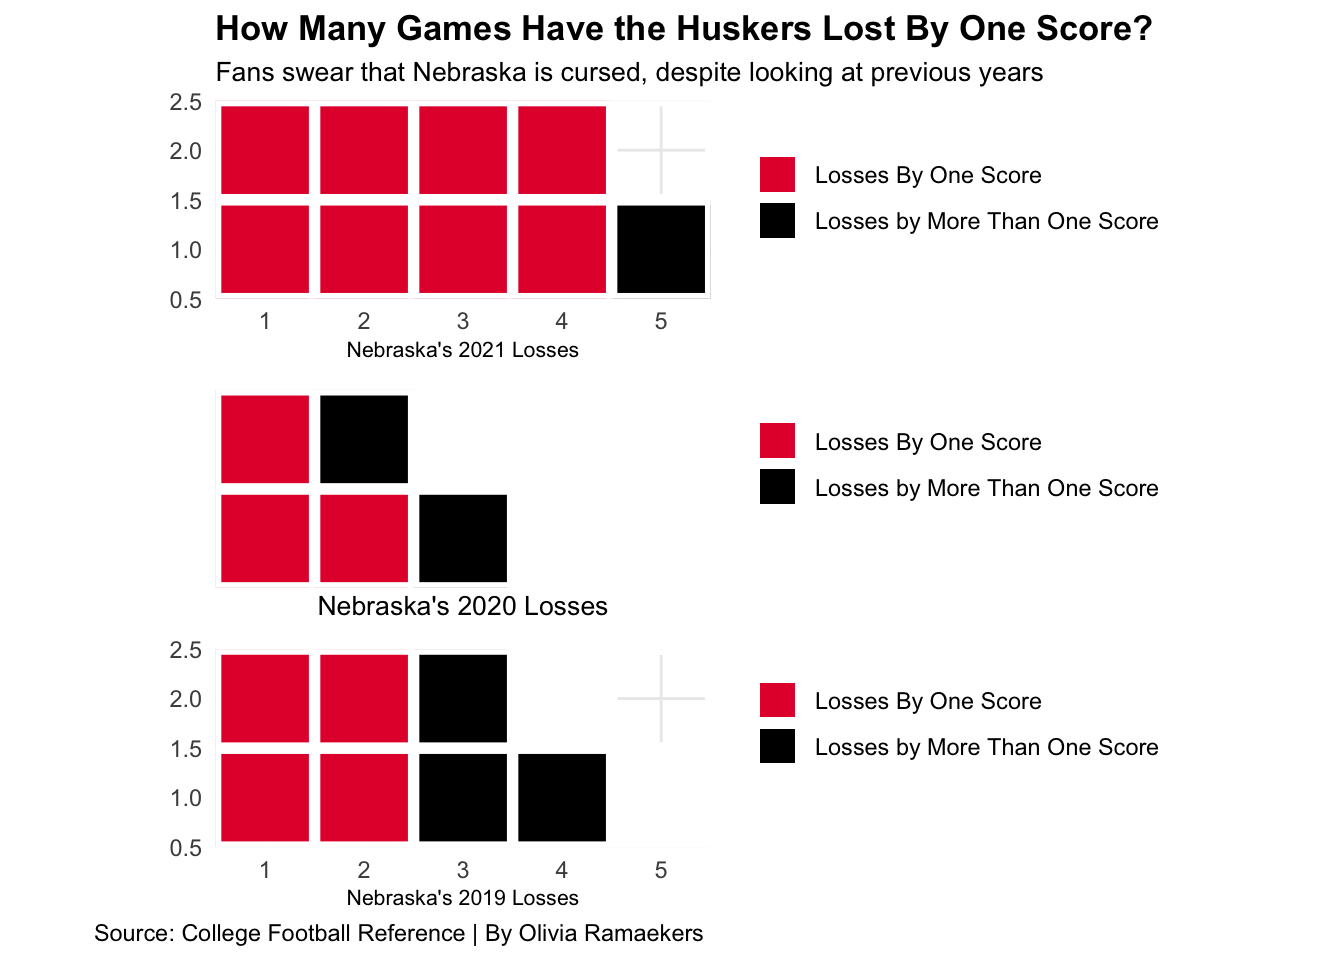
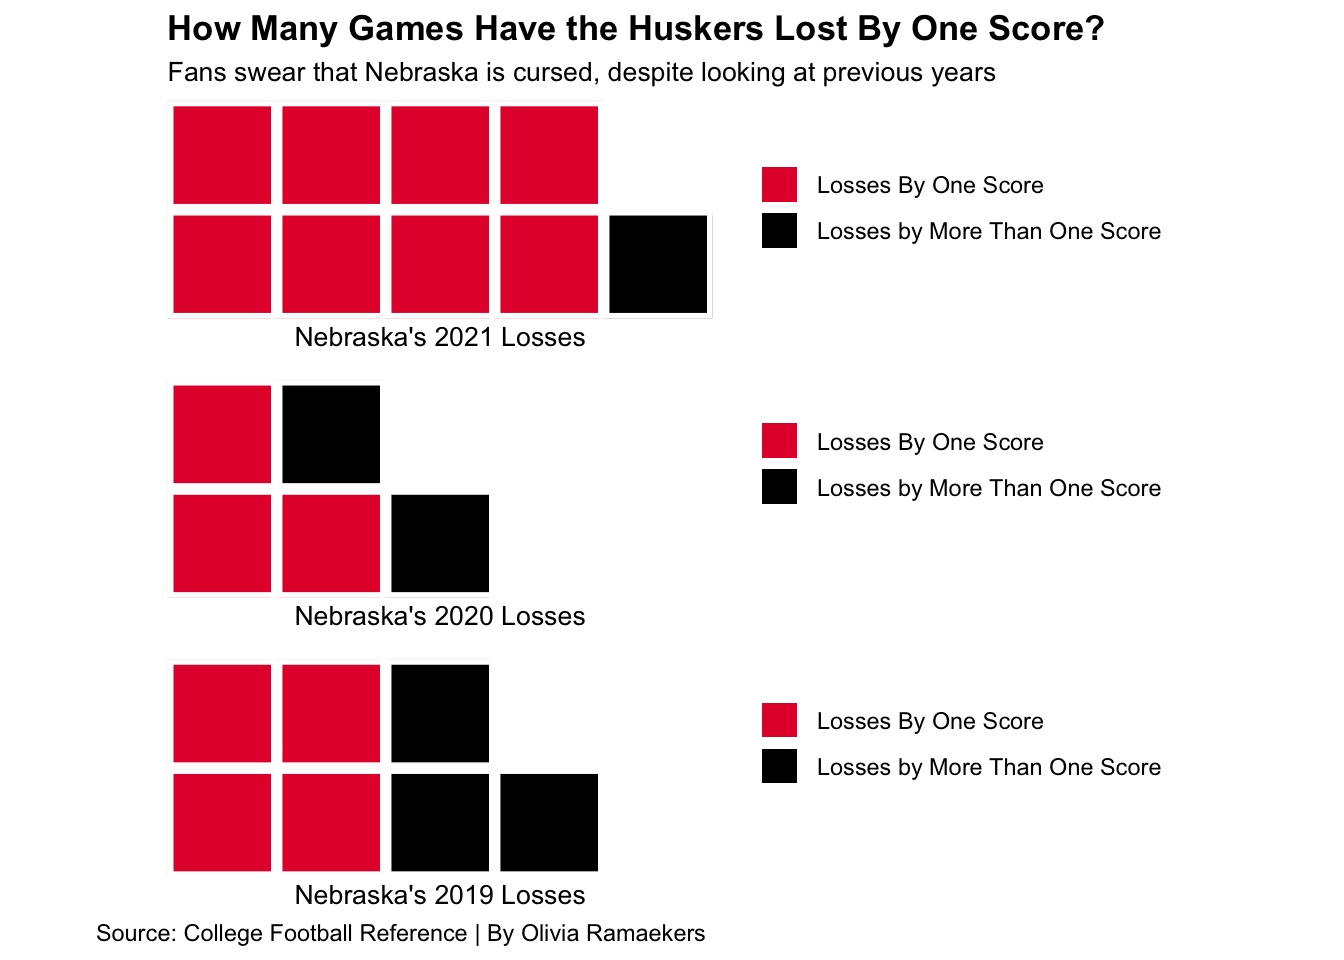
last fix i hope
fixed theme

diff --git a/2021/12/05/is-the-husker-football-team-cursed/index.html b/2021/12/05/is-the-husker-football-team-cursed/index.html
@@ -166,7 +166,6 @@ From what I’ve heard around me, the Offense takes a lot of heat for bad plays 
   labs(
     title = &quot;How Many Games Have the Huskers Lost By One Score?&quot;, 
     subtitle = &quot;Fans swear that Nebraska is cursed, despite looking at previous years&quot;) + 
-  theme_minimal() + 
   theme (
     plot.title = element_text(size = 13, face = &quot;bold&quot;), 
     axis.title = element_text(size=8), 
@@ -188,7 +187,6 @@ From what I’ve heard around me, the Offense takes a lot of heat for bad plays 
          xlab = &quot;Nebraska&#39;s 2019 Losses&quot;,
          colors = c(&quot;#E41C38&quot;, &quot;black&quot;, &quot;white&quot;)) + 
   labs(caption = &quot;Source: College Football Reference | By Olivia Ramaekers &quot;) + 
-  theme_minimal() + 
   theme (
     plot.title = element_text(size = 13, face = &quot;bold&quot;), 
     axis.title = element_text(size=8), 
